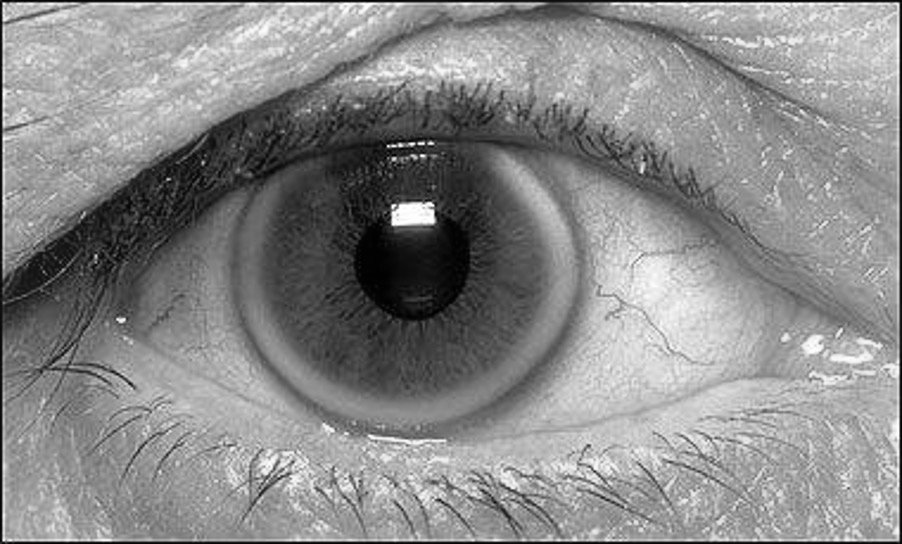
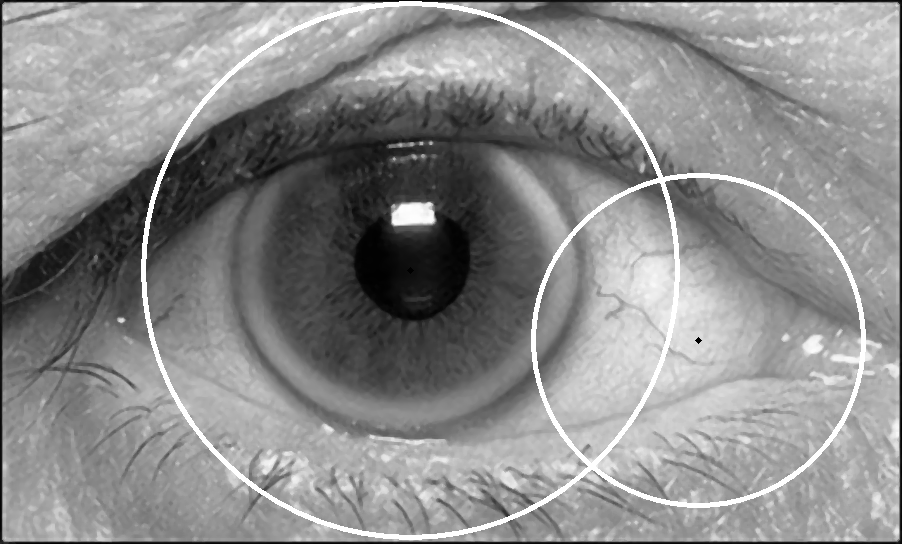
EDD-18

diff --git a/preprocessing.py b/preprocessing.py
@@ -1,5 +1,5 @@
 import cv2
-import numpy
+import numpy as np
 
 
 class iris_detection():
@@ -33,20 +33,41 @@ class iris_detection():
         self.mid = cv2.Canny(self._img, 30, 150)
         self.tight = cv2.Canny(self._img, 240, 250)
 
+    def cut_eyebrows(self):
+        height, width = self._img.shape[:2]
+        eyebrow_h = int(height / 4)
+        self._img = self._img[eyebrow_h:height, 0:width]  # cut eyebrows out (15 px)
+
     # ToDo
     def detect_pupil(self):
-        pass
+        # reduce noise
+        self._img = cv2.medianBlur(self._img, 5)
+
+        circles = cv2.HoughCircles(self._img, cv2.HOUGH_GRADIENT, dp=1, minDist=self._img.shape[0] / 2,
+                                   param1=100, param2=100, minRadius=0, maxRadius=0)
+
+        if circles is not None:
+            circles = np.uint16(np.around(circles))
+            for i in circles[0, :]:
+                center = (i[0], i[1])
+                # circle center
+                cv2.circle(self._img, center, 1, (0, 100, 100), 3)
+                # circle outline
+                radius = i[2]
+                cv2.circle(self._img, center, radius, (255, 0, 255), 3)
+
 
     def store_image(self):
         cv2.imwrite("data/as-test-gray.png", self._img)
 
-        cv2.imwrite("data/canny-wide.png", self.wide)
-        cv2.imwrite("data/canny-mid.png", self.mid)
-        cv2.imwrite("data/canny-tight.png", self.tight)
+        # cv2.imwrite("data/canny-wide.png", self.wide)
+        # cv2.imwrite("data/canny-mid.png", self.mid)
+        # cv2.imwrite("data/canny-tight.png", self.tight)
 
     def start_detection(self):
         self.load_image()
         self.convert_to_gray_scale()
-        #self.detect_pupil()
-        self.detect_edges()
+        #self.cut_eyebrows()
+        # self.detect_edges()
+        self.detect_pupil()
         self.store_image()
